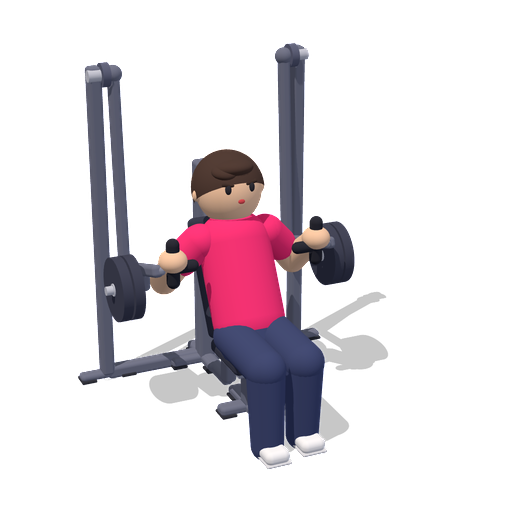
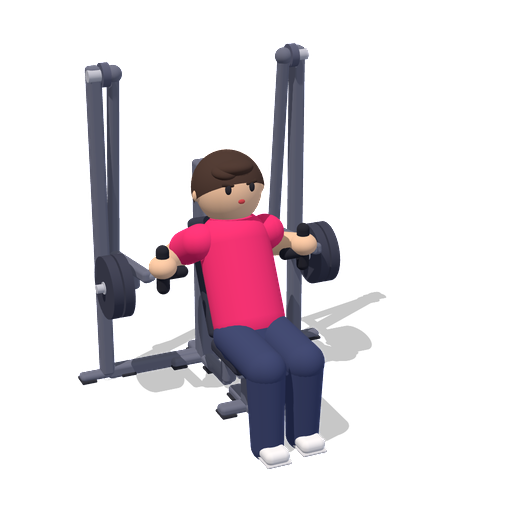
운동기록 프로토타입 v1.39.1 — 인클라인 체스트프레스 시작 그림(z/incline_cp_a.png) 1장 교체(디자인봇 nijim_exercise_art_toss_20261109 final, 인클라인 보강) · incline_cp_b·t/incline_cp 그대로 · VER v1.39.1(이미지 캐시키) · 되돌릴 곳 f466b77

diff --git a/app.js b/app.js
@@ -2,7 +2,7 @@
 /* v1.12 — v1.11(C안 1/4 고객 앱 기록 흐름 전부) + 결정 33: 아이템 경험치는 한도 없음(운동 경험치만 하루 600·주 1,800).
    경험치·레벨·표정·랭킹 계산은 engine.js 한 곳(CFG·sessionXP·capGain·applyXP·judgeIntensity·exprFor·forecastWeek). 이 파일은 화면만 */
 const KEY = 'nijim_workout_proto_v111';
-const VER = 'v1.39';
+const VER = 'v1.39.1';
 /* 확정 12종(결정 22~25) — design v13 정본 · 레벨 띠 11컷 · 표정 5종. 12종 모두 처음부터 선택 가능(결정 25) */
 const CH = {
   mungchi:   { name: '뭉치', josa: '가', intro: '느긋하고 솔직한 땀방울 슬라임' },
